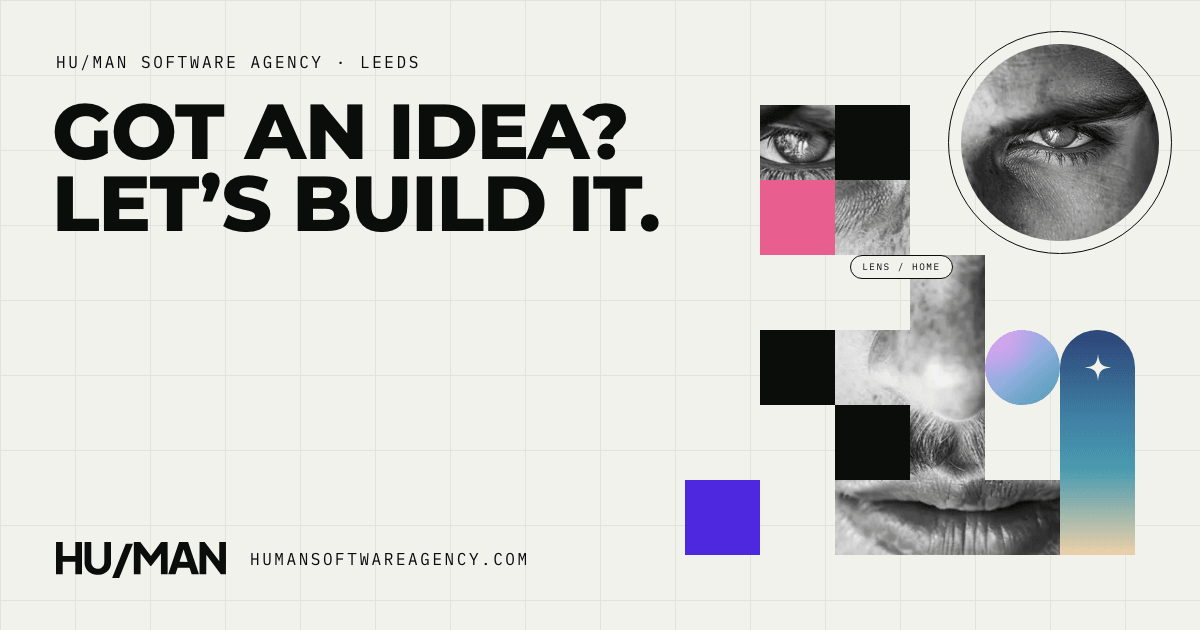
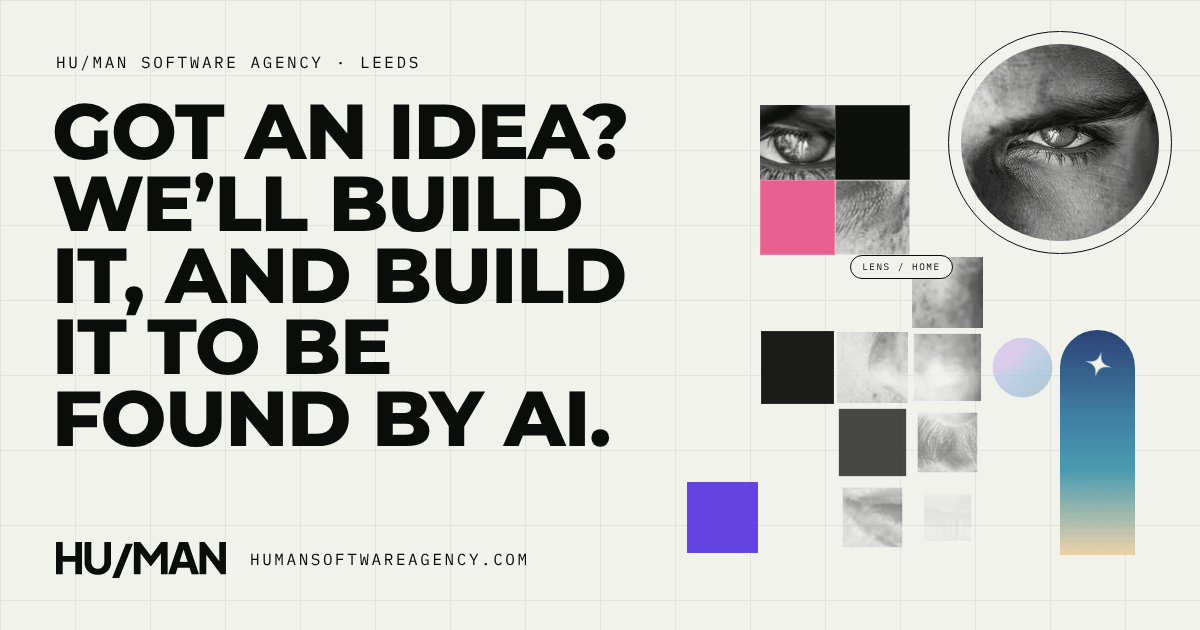
Add /portfolio for portfolio and CV websites
Profile £149, Portfolio £249, Portfolio Pro £395, add-ons and 48-hour
Express. Page registered in pages.ts (sitemap, schema, llms, social card);
schema and llms.txt also read the new method and pricing data. axe and
screenshot scripts cover the page.
Claude-Session: https://claude.ai/code/session_01LTmySUDV3ynUzmvmN1qBrJ

diff --git a/site/src/lib/llms.ts b/site/src/lib/llms.ts
@@ -7,10 +7,21 @@ import { site } from '../config/site';
 import { withBase } from '../config/paths';
 import { pages, tierCount, type PageKey } from '../data/pages';
 import { serviceAreas } from '../data/services';
-import { tiers, addOns, fromPrice, priceOf } from '../data/pricing';
+import {
+  tiers,
+  addOns,
+  fromPrice,
+  priceOf,
+  headlineCards,
+  fastTrack,
+  portfolioTiers,
+  portfolioAddOns,
+  portfolioExpress,
+  carePlansNote,
+} from '../data/pricing';
 import { faq, agenticFaq, checkFaq, contactFaq } from '../data/faq';
 import { definition, ingredients } from '../data/agentic';
-import { stages, checklist, compare, bonnet } from '../data/process';
+import { method, methodName, methodNote, checklist, compare, bonnet } from '../data/process';
 import { projects } from '../data/projects';
 import { mission, rules, promises } from '../data/about';
 
@@ -18,11 +29,13 @@ const abs = (path: string) => new URL(withBase(path), site.url).toString();
 const plus = (text: string) => text.replace(/\s\+\s/g, ' and ');
 const link = (key: PageKey) => `[${pages[key].label}](${abs(pages[key].path)})`;
 
-const summary = `${site.fullName} is a software studio in ${site.location.town}, ${site.location.region}, UK. It designs and builds websites, e-commerce stores, mobile apps and custom software for individuals and small businesses, and looks after them after launch. Every site from the ${priceOf('spark')} Spark tier up is agentic AI-ready as standard: fast, secure, and structured so people, search engines and AI agents can read it and act on it. A real person works with each client from the first call to long after launch.`;
+const summary = `${site.fullName} is a software studio in ${site.location.town}, ${site.location.region}, UK. It designs and builds websites, e-commerce stores, mobile apps and custom software for individuals and small businesses, and looks after them after launch. Every site from the ${priceOf('start')} Start tier up is agentic AI-ready as standard: fast, secure, and structured so people, search engines and AI agents can read it and act on it. A real person works with each client from the first call to long after launch.`;
 
 const keyFacts = [
   `Name: ${site.fullName} (also written ${site.alternateNames.join(', ')})`,
   `Based in: ${site.location.town}, ${site.location.region}, United Kingdom (a service-area business; no public street address)`,
+  `Locations: ${site.locations.join(' · ')}`,
+  `Founded by: ${site.founderShort}`,
   'Works: in person in Leeds and West Yorkshire, remotely across the UK and worldwide',
   `Founded: ${site.founded}`,
   `Website prices: from ${fromPrice} to ${priceOf('full-presence')} in ${tierCount} fixed tiers; custom apps and portals priced on application`,
@@ -39,6 +52,7 @@ const pageKeys: PageKey[] = [
   'free-ai-check',
   'how-we-build',
   'work',
+  'portfolio',
   'about',
   'contact',
 ];
@@ -108,7 +122,7 @@ export function llmsFullTxt(): string {
     '',
     ...ingredients.map((item, i) => `${i + 1}. ${item.title}: ${item.text}`),
     '',
-    `Every website from the ${priceOf('spark')} Spark tier up is agentic AI-ready as standard; the ${fromPrice} Essential tier is a standard website without it.`,
+    `Every website from the ${priceOf('start')} Start tier up is agentic AI-ready as standard; the ${fromPrice} Essential tier is a standard website without it.`,
     '',
     ...agenticFaq.flatMap((item) => [`### ${item.q}`, '', item.a, '']),
     `## Free AI check (${link('free-ai-check')})`,
@@ -154,13 +168,38 @@ export function llmsFullTxt(): string {
     '',
     `Add-ons: ${addOns.join('; ')}.`,
     '',
-    'Monthly care plans (hosting, security, backups, updates, small fixes and support) are being reworked; the current draft prices are on the pricing page.',
+    'Headline cards, with timelines:',
+    '',
+    ...headlineCards.map(
+      (c) =>
+        `- ${c.name}${c.tag ? ` (${c.tag})` : ''}: ${c.price === 'Bespoke' ? 'Bespoke' : c.price}, ${c.what}. ${c.timeline}.`,
+    ),
+    '',
+    `${fastTrack.title}: ${fastTrack.text}`,
+    '',
+    `Care plans: launching soon, with no prices yet. ${carePlansNote}`,
+    '',
+    `## Portfolio and CV websites (${link('portfolio')})`,
+    '',
+    'Personal sites for individuals: job seekers, graduates, creatives and freelancers. We do not promise jobs, interviews or any result with applicant tracking systems.',
+    '',
+    ...portfolioTiers.flatMap((t) => [
+      `### ${t.name}${t.tag ? ` (${t.tag})` : ''}: ${t.price}, ${t.timeline}`,
+      '',
+      ...t.includes.map((i) => `- ${i}`),
+      '',
+    ]),
+    `Add-ons: ${portfolioAddOns.join('; ')}.`,
+    '',
+    `${portfolioExpress.title} (${portfolioExpress.price}): ${portfolioExpress.text}`,
     '',
     `## How we build (${link('how-we-build')})`,
     '',
-    'Six stages. A person signs off each one.',
+    `${methodName} A person signs off each step.`,
     '',
-    ...stages.map((s, i) => `${i + 1}. ${plus(s.title)}: ${s.text}`),
+    ...method.map((s, i) => `${i + 1}. ${s.title} (${s.when}): ${s.text}`),
+    '',
+    methodNote,
     '',
     '### What is under the bonnet',
     '',

diff --git a/site/src/data/schema.ts b/site/src/data/schema.ts
@@ -2,7 +2,7 @@
  * The schema.org JSON-LD for each page, as one linked @graph. Every page carries the business,
  * the website, the page itself and its breadcrumb, joined by @id, so search engines and AI tools
  * read one consistent entity wherever they land. Pages then add what they are about: the service
- * catalogue, the priced tiers and FAQ, the build stages, or the projects.
+ * catalogue, the priced tiers and FAQ, the build method, or the projects.
  *
  * Rule: the schema only states what the visible page states (Google's structured data policy,
  * and the hard rule on proof). No ratings, reviews or awards until real ones exist.
@@ -10,10 +10,10 @@
 import { site } from '../config/site';
 import { pages, type PageKey } from './pages';
 import { serviceAreas } from './services';
-import { tiers } from './pricing';
+import { tiers, portfolioTiers } from './pricing';
 import { faq, agenticFaq, checkFaq } from './faq';
 import { term, definition } from './agentic';
-import { stages } from './process';
+import { method, methodName } from './process';
 import { projects } from './projects';
 import { lastModified, pageFile } from '../lib/lastModified';
 
@@ -78,7 +78,7 @@ export function buildSchema(key: PageKey, abs: AbsUrl): Node {
     image: abs('/og/index.png'),
     description:
       'A software studio in Leeds, West Yorkshire, building websites, e-commerce stores, mobile apps and custom software for individuals and small businesses. Every site is fast, secure and agentic AI-ready, and a real person supports it after launch.',
-    slogan: 'Made by hand. Built by machine.',
+    slogan: site.tagline,
     foundingDate: site.founded,
     email: site.contact.email,
     telephone: `+${site.contact.phoneIntl}`,
@@ -222,16 +222,39 @@ export function buildSchema(key: PageKey, abs: AbsUrl): Node {
     }));
   }
 
+  if (key === 'portfolio') {
+    graph.push({
+      '@type': 'OfferCatalog',
+      '@id': `${url}#tiers`,
+      name: 'Portfolio and CV websites',
+      url,
+      itemListElement: portfolioTiers.map((tier) => ({
+        '@type': 'Offer',
+        name: tier.name,
+        description: tier.includes.join('; '),
+        url: `${url}#tiers-title`,
+        seller: { '@id': ids.org },
+        price: amount(tier.price),
+        priceCurrency: 'GBP',
+        itemOffered: {
+          '@type': 'Service',
+          name: `${tier.name}: portfolio website, ${tier.timeline}`,
+          provider: { '@id': ids.org },
+        },
+      })),
+    });
+  }
+
   if (key === 'how-we-build') {
     webPage.mainEntity = {
       '@type': 'ItemList',
-      name: 'Six stages. A human signs off each one.',
+      name: methodName,
       itemListOrder: 'https://schema.org/ItemListOrderAscending',
-      itemListElement: stages.map((stage, i) => ({
+      itemListElement: method.map((step, i) => ({
         '@type': 'ListItem',
         position: i + 1,
-        name: stage.title.replace(/\s\+\s/g, ' and '),
-        description: stage.text,
+        name: step.title,
+        description: `${step.when}. ${step.text}`,
       })),
     };
   }

diff --git a/site/src/data/pages.ts b/site/src/data/pages.ts
@@ -5,7 +5,7 @@
  *
  * Titles stay under 60 characters and descriptions near 150, so search results show them whole.
  */
-import { fromPrice, priceOf, tiers } from './pricing';
+import { fromPrice, priceOf, tiers, portfolioTiers } from './pricing';
 import { checklist } from './process';
 
 export type PageKey =
@@ -13,6 +13,7 @@ export type PageKey =
   | 'services'
   | 'pricing'
   | 'work'
+  | 'portfolio'
   | 'about'
   | 'how-we-build'
   | 'agentic-ai-ready'
@@ -65,7 +66,7 @@ export const pages: Record<PageKey, PageInfo> = {
     description:
       'Leeds studio for websites, apps and software: agentic AI-ready as standard, with a real person from first call to long after launch. Free AI check.',
     label: 'Home',
-    ogHeadline: 'Got an idea? Let’s build it.',
+    ogHeadline: 'Got an idea? We’ll build it, and build it to be found by AI.',
     schemaType: 'WebPage',
   },
   services: {
@@ -86,6 +87,15 @@ export const pages: Record<PageKey, PageInfo> = {
     label: 'Pricing',
     ogHeadline: `Start at ${fromPrice}. Grow from there.`,
     schemaType: 'FAQPage',
+  },
+  portfolio: {
+    key: 'portfolio',
+    path: '/portfolio/',
+    title: `Portfolio and CV websites from ${portfolioTiers[0].price} | Hu/man`,
+    description: `Personal portfolio and CV websites for job seekers, graduates, creatives and freelancers, from ${portfolioTiers[0].price}. Mobile-first, readable by search and AI, with a PDF CV.`,
+    label: 'Portfolio sites',
+    ogHeadline: 'Be remembered, not just screened.',
+    schemaType: 'WebPage',
   },
   work: {
     key: 'work',
@@ -111,7 +121,7 @@ export const pages: Record<PageKey, PageInfo> = {
     key: 'how-we-build',
     path: '/how-we-build/',
     title: 'How we build fast, secure, AI-ready sites | Hu/man',
-    description: `Not AI slop: six stages a human signs off, the technology under every build, and the ${checklist.length}-point checklist every site passes before it goes live.`,
+    description: `Not AI slop: one five-step method a human signs off, the technology under every build, and the ${checklist.length}-point checklist every site passes before it goes live.`,
     label: 'How we build',
     ogHeadline: 'Not AI slop.',
     schemaType: 'WebPage',
@@ -202,7 +212,7 @@ export const pages: Record<PageKey, PageInfo> = {
     title: 'Page not found | Hu/man Software Agency',
     description: 'This page could not be found.',
     label: 'Page not found',
-    ogHeadline: 'Got an idea? Let’s build it.',
+    ogHeadline: 'Got an idea? We’ll build it, and build it to be found by AI.',
     schemaType: 'WebPage',
     noindex: true,
   },
